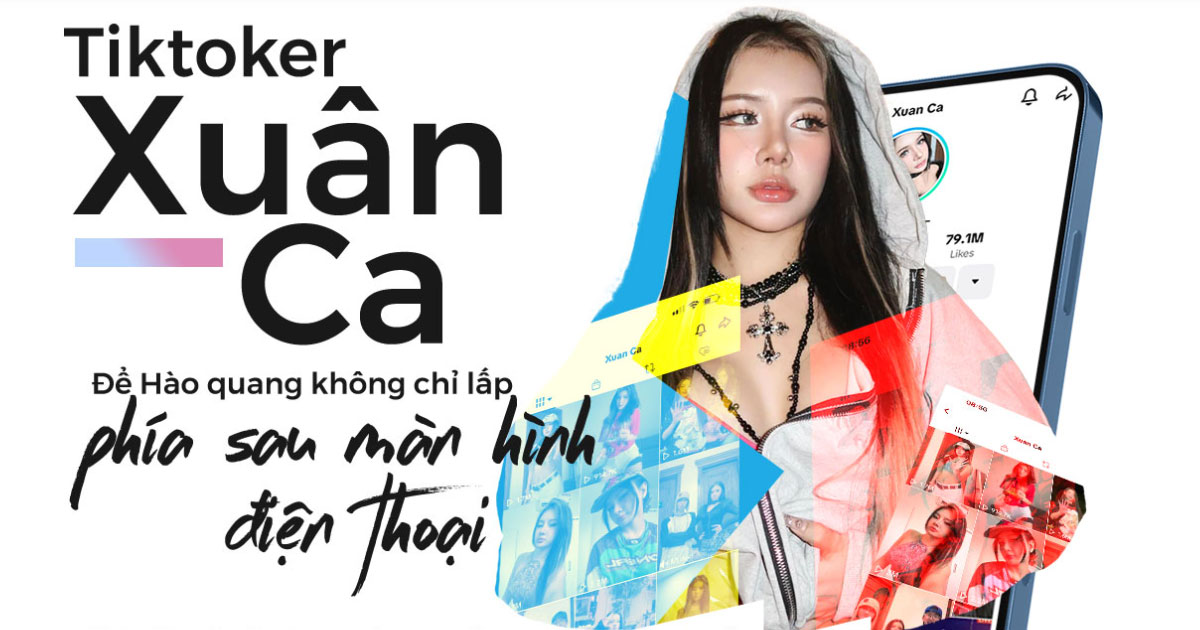
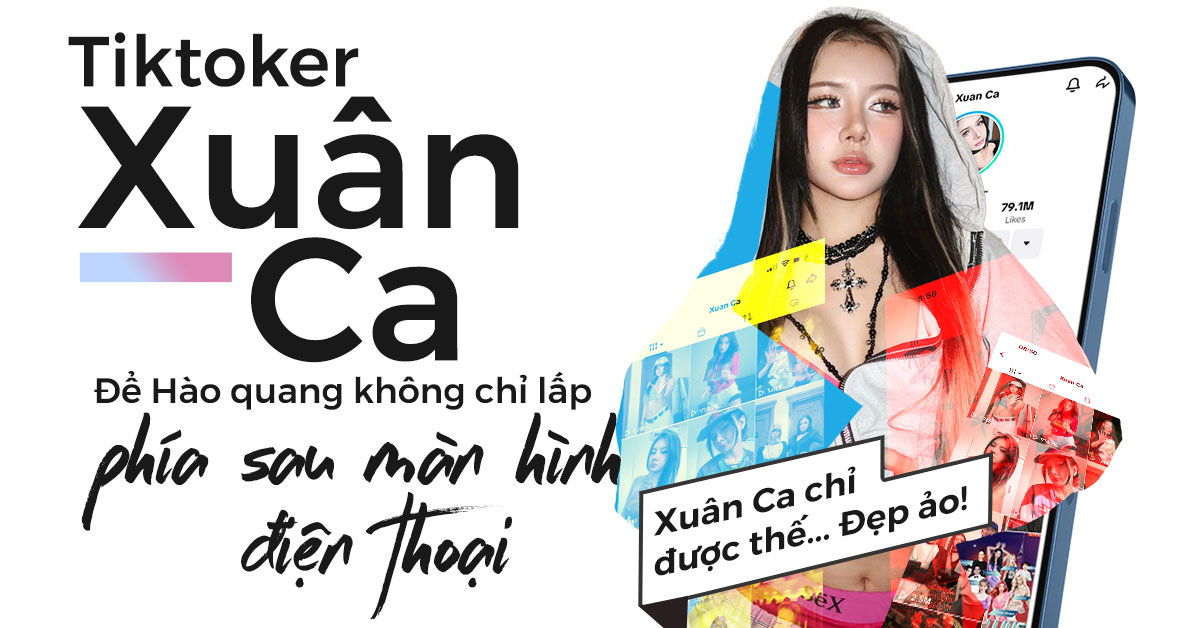
update

diff --git a/Pages/kangnam-story/kangnam-story/index.html b/Pages/kangnam-story/kangnam-story/index.html
@@ -28,9 +28,16 @@
     </section>
 </body>
 
-<script src="https://benhvienthammykangnam.vn/css/landing/option.min.js"></script>
+<script src="https://benhvienthammykangnam.vn/css/landing/option.min.js?ver=2"></script>
+<script src="https://benhvienthammykangnam.vn/css/lib/module.min.js?v=1"></script>
 <script>
     const dataPerson = [
+{
+            link: "https://benhvienthammykangnam.vn/kangnam-story/xuan-ca/",
+            img: "https://benhvienthammykangnam.vn/wp-content/uploads/2024/07/xca-story.jpg",
+            name: "Tiktoker Xuân Ca",
+            groupService: "<li>Cắt mí 6D</li><li>Nâng mũi Idol Surgiform</li>",
+        },
         {
             link: "https://benhvienthammykangnam.vn/kangnam-story/thu-huong/",
             img: "https://benhvienthammykangnam.vn/cp/pages/kangnam-story/kangnam-story/media/images/thu-huong.jpg",
@@ -60,6 +67,18 @@
             img: "https://benhvienthammykangnam.vn/cp/pages/kangnam-story/kangnam-story/media/images/kim-phuong.jpg",
             name: "Khách hàng Kim Phượng",
             groupService: "<li>Chỉnh hình hàm</li><li>Nâng mũi</li><li>Cắt mí</li>",
+        },
+        {
+            link: "https://benhvienthammykangnam.vn/kangnam-story/thanh-hung/",
+            img: "https://benhvienthammykangnam.vn/wp-content/uploads/2024/07/thanh-hung-beauty.jpg",
+            name: "Khách hàng Thanh Hưng",
+            groupService: "<li>Mở kết mạc, cắt phần u bên trong</li><li>Xử lý phần u bên ngoài mắt</li><li>Cắt chỉnh sửa tổng thể</li>",
+        },
+        {
+            link: "https://benhvienthammykangnam.vn/kangnam-story/huyen-trang/",
+            img: "https://benhvienthammykangnam.vn/wp-content/uploads/2024/07/huyen-trang-beauty.jpg",
+            name: "Khách hàng Huyền Trang",
+            groupService: "<li>Chuyển vạt cân cơ thái dương</li><li>Nâng mũi</li><li>Cắt mí + Mở khóe mắt</li><li>Trượt cằm</li>",
         },
         {
             link: "https://benhvienthammykangnam.vn/kangnam-story/bao-tien/",

diff --git a/Pages/kangnam-story/kangnam-story-xuan-ca/index.html b/Pages/kangnam-story/kangnam-story-xuan-ca/index.html
@@ -4,10 +4,10 @@
 <head>
     <meta charset="UTF-8">
     <meta name="viewport" content="width=device-width, initial-scale=1.0">
-    <meta property="og:image" content="https://benhvienthammykangnam.vn/kangnam-story/xuan-ca/media/images/thumb.jpg" />
+    <meta property="og:image" content="https://benhvienthammykangnam.vn/wp-content/uploads/2024/07/thumb.jpg" />
     <link rel="stylesheet" href="https://benhvienthammykangnam.vn/css/lib/lib.min.css">
     <link rel="stylesheet" href="media/sass/main.min.css?ver=2">
-    <title>Khách hàng Xuân Ca</title>
+    <title>Công thức Lột xác của Tiktoker Xuân Ca</title>
 </head>
 
 <body>
@@ -21,9 +21,7 @@
     <section class="screen2 load">
         <div class="container">
             <div class="screen2__title">Đã từng PTTM <br> mà vẫn chưa ưng...</div>
-            <img width="1323" height="588" class="lazy" data-src="media/images/page2-bg.jpg"
-                alt="Đã từng PTTM mà vẫn chưa ưng...">
-        </div>
+           <div class="screen2__list"></div>
     </section>
 
     <section class="screen3 load">
@@ -128,7 +126,7 @@
     <div class="cta click-hq">Chạm nhận hào quang</div>
 
     <script src="https://benhvienthammykangnam.vn/css/lib/lib.min.js"></script>
-    <script src="https://benhvienthammykangnam.vn/css/landing/option.min.js?ver=10"></script>
+    <script src="https://benhvienthammykangnam.vn/css/landing/option.min.js?ver=11"></script>
     <script src="https://benhvienthammykangnam.vn/css/lib/js_v2.min.js?ver=10"></script>
 
     <script>

diff --git a/Pages/kangnam-story/kangnam-story-xuan-ca/m/index.html b/Pages/kangnam-story/kangnam-story-xuan-ca/m/index.html
@@ -5,10 +5,10 @@
     <meta charset="UTF-8">
     <meta name="viewport" content="width=device-width, initial-scale=1.0">
     <meta property="og:image"
-        content="https://benhvienthammykangnam.vn/kangnam-story/thu-huong/media/images/thumb.jpg" />
+        content="https://benhvienthammykangnam.vn/wp-content/uploads/2024/07/thumb.jpg" />
     <link rel="stylesheet" href="https://benhvienthammykangnam.vn/css/lib/lib.min.css">
     <link rel="stylesheet" href="media/sass/main.min.css?ver=2">
-    <title>Khách hàng Xuân Ca</title>
+    <title>Công thức Lột xác của Tiktoker Xuân Ca</title>
     <style>
         .cta{
             right: 50%;
@@ -136,7 +136,7 @@
     <div class="cta click-hq">Chạm nhận hào quang</div>
 
     <script src="https://benhvienthammykangnam.vn/css/lib/lib.min.js"></script>
-    <script src="https://benhvienthammykangnam.vn/css/landing/option.min.js?ver=10"></script>
+    <script src="https://benhvienthammykangnam.vn/css/landing/option.min.js?ver=11"></script>
     <script src="https://benhvienthammykangnam.vn/css/lib/js_v2.min.js"></script>
 
     <script>
